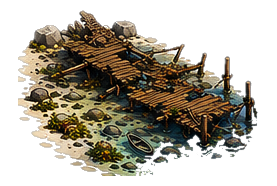
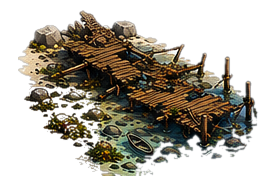
fix(map): move dock right over the water + strip its baked beach sand
- Move the dock right (x 0.8 -> 0.85, y 0.697 -> 0.71) so the pier sits over the
  SE bay water rather than jammed on the beach (the island left-shift had pushed
  it onto the shore); its right end now reads clean in open water.
- New strip_shore_sand() clears the sandy beach wedge baked into the bottom-left
  of the dock sprite, so it sits on the plate's rocky shore instead of laying its
  own patch of sand over the rocks. Restricted to the bottom-left wedge AND the
  warm-tan sand colour, so the same-tan deck planks, the boat and the posts are
  untouched (verified across states). Runs on the bbox-cropped sprite.

tsc/vitest(409)/build green.

diff --git a/src/data/town-layout.ts b/src/data/town-layout.ts
@@ -124,7 +124,7 @@ export const TOWN_BUILDINGS_V2: readonly TownPiece[] = [
   { art: 'town_sawmill', x: 0.47, y: 0.291, w: 0.13, unlockAt: 20, ruinVariant: 1 },
   { art: 'town_blacksmith', x: 0.47, y: 0.525, w: 0.125, unlockAt: 21, smoke: { dx: 0.05, dy: -0.8 }, ruinVariant: 2 },
   // the jetty runs from the SE point out into the bay
-  { art: 'town_dock', x: 0.8, y: 0.697, w: 0.152, unlockAt: 22, ruinVariant: 5, water: true },
+  { art: 'town_dock', x: 0.85, y: 0.71, w: 0.152, unlockAt: 22, ruinVariant: 5, water: true },
   { art: 'town_library', x: 0.39, y: 0.66, w: 0.13, unlockAt: 23, ruinVariant: 3 },
 ] as const;
 

diff --git a/tools/import_map_v2.py b/tools/import_map_v2.py
@@ -298,6 +298,29 @@ def lift_trapped_bg(im: Image.Image) -> Image.Image:
     return res
 
 
+def strip_shore_sand(im: Image.Image) -> Image.Image:
+    """Remove the sandy BEACH wedge baked into the bottom-left of the dock's base,
+    so the pier reads on the plate's rocky shore instead of laying its own patch
+    of sand over the rocks. Restricted to the bottom-left wedge AND the warm-tan
+    sand colour, so the (same-tan) deck planks, the boat and the posts — which sit
+    centre/right and higher — are untouched. Runs on the bbox-cropped sprite."""
+    a = np.asarray(im.convert("RGBA")).astype(np.int16)
+    r, g, b, al = a[:, :, 0], a[:, :, 1], a[:, :, 2], a[:, :, 3]
+    h, w = al.shape
+    op = al > 60
+    sand = op & (r > 172) & (r > b + 26) & (g > b + 6) & (g < r + 8)
+    yy, xx = np.mgrid[0:h, 0:w]
+    wedge = (xx < w * 0.34) & (yy > h * 0.46)
+    strip = sand & wedge
+    if not strip.any():
+        return im
+    out = np.asarray(im.convert("RGBA")).copy()
+    out[strip, 3] = 0
+    res = Image.fromarray(out, "RGBA")
+    res.putalpha(res.getchannel("A").filter(ImageFilter.GaussianBlur(0.6)))
+    return despeckle(res, 0.004)
+
+
 def defringe(im: Image.Image) -> Image.Image:
     """Drop the pale anti-aliased halo the near-white key leaves along edges:
     semi-transparent pixels whose colour is close to the (near-white) source
@@ -458,7 +481,10 @@ def import_buildings(dry: bool, report: list[str], coverage: dict[str, set[str]]
                 bb = content_bbox(k)
                 if bb is None:
                     continue
-                pending.setdefault((building, state), []).append((phases[ri], k.crop(bb)))
+                cropped = k.crop(bb)
+                if building == "dock":
+                    cropped = strip_shore_sand(cropped)  # clear the beach wedge
+                pending.setdefault((building, state), []).append((phases[ri], cropped))
 
     # Emit: one shared canvas per (building, state) spanning ALL its phases, each
     # phase centred on it so the midday base and its _dawn/_dusk/_night overlays
